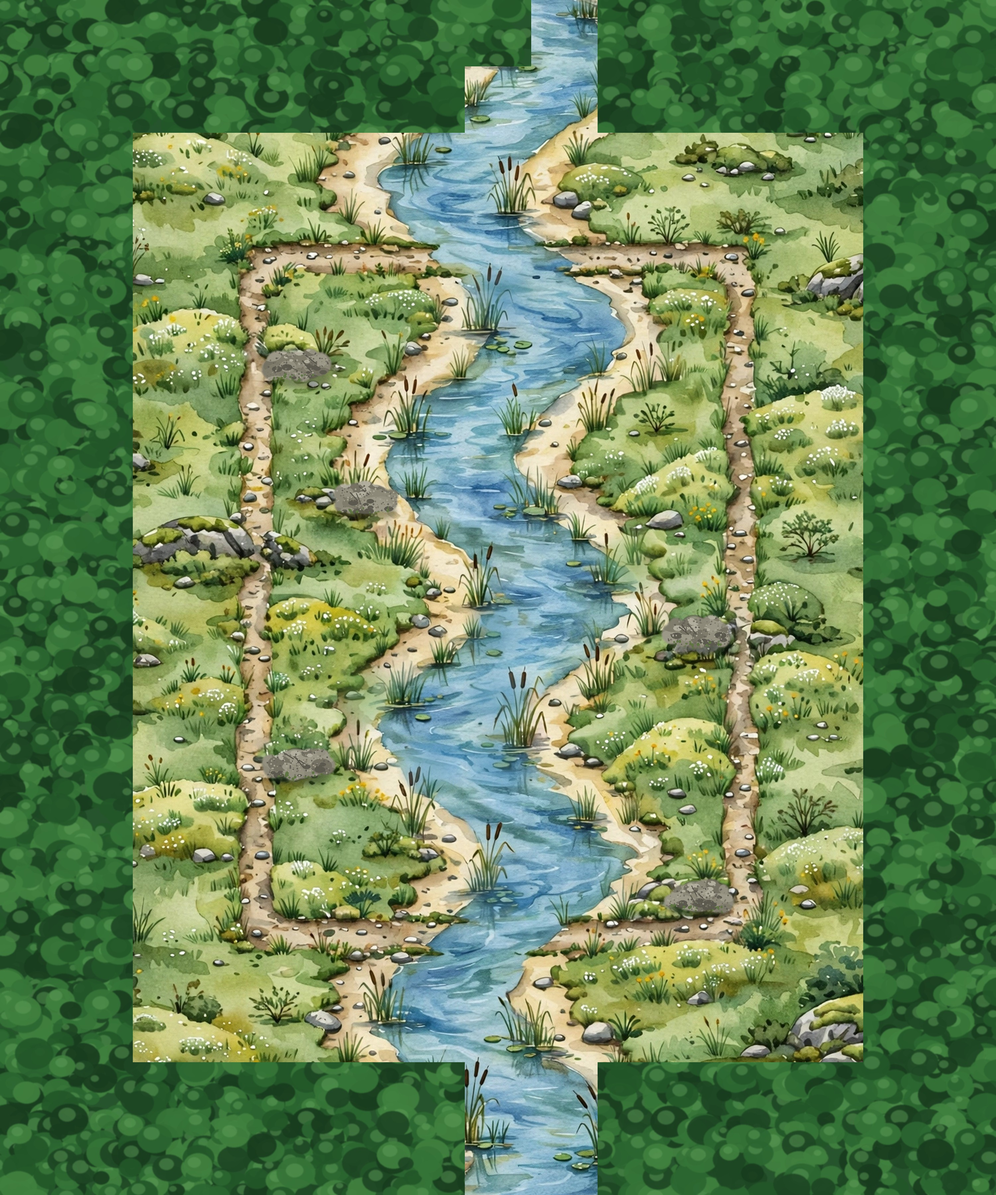
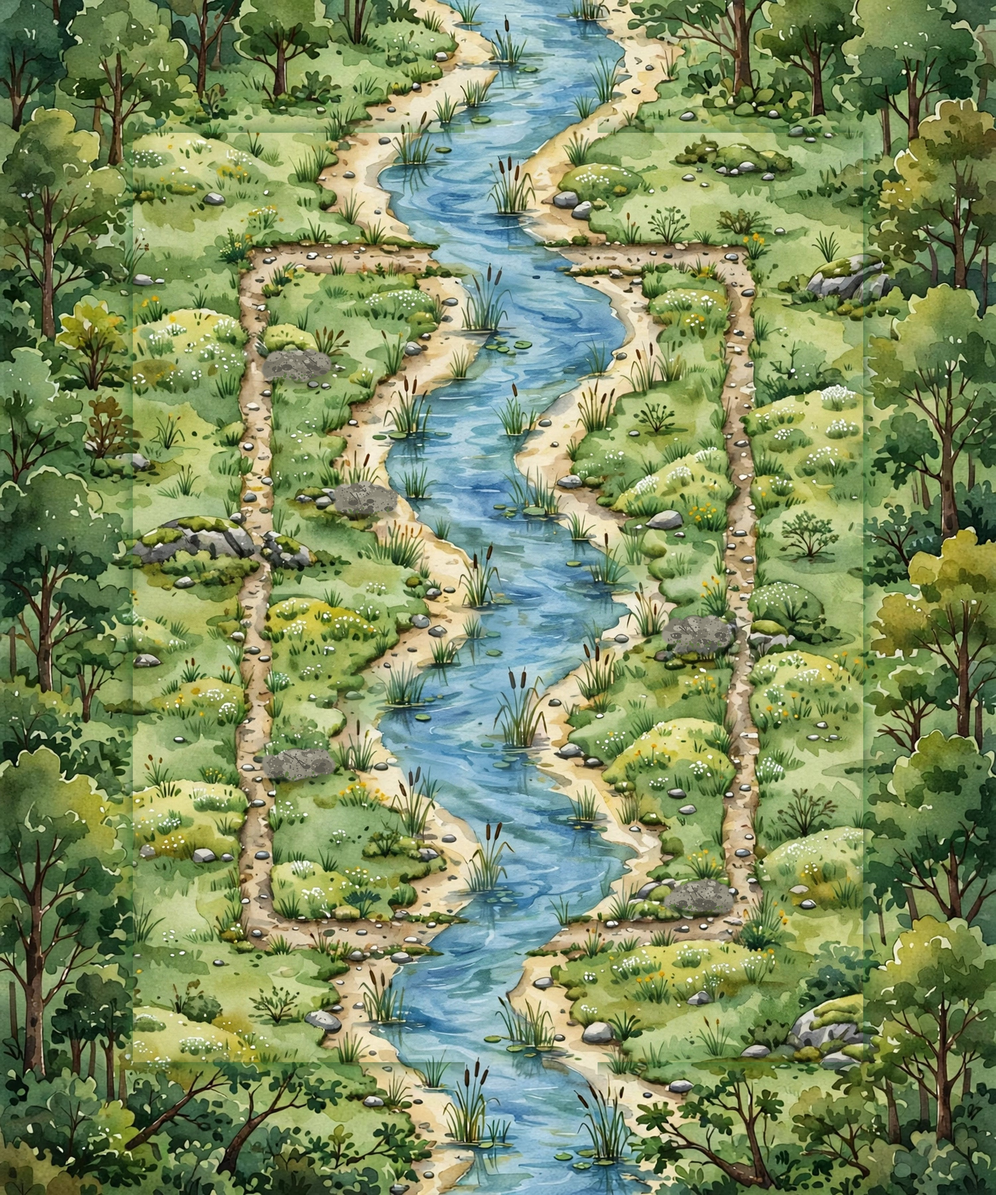
盤外を本物の森に描き替え・崖面を滑らかに

diff --git a/index.html b/index.html
@@ -357,10 +357,12 @@ select{font-family:inherit;font-size:calc(var(--k)*15);padding:calc(var(--k)*8);
 /* 地面SVGは盤面の2倍の広さ（盤外の景色を含む viewBox -235 -100 940 400）で
    盤面の外へはみ出して描く。盤面要素自体の寸法・位置は従来どおり。 */
 .iso-board>svg.iso-ground{position:absolute;left:-50%;top:-50%;width:200%;height:200%;display:block;z-index:0}
-/* ---- マス表示：上面は枠と淡い地形色だけ。段差はブロック式の側面で表す ----
+/* ---- マス表示：上面は枠と淡い地形色だけ。段差は側面で表す ----
    側面（.blk-l/.blk-r）は手前2方向の隣マスとの高さ差ぶんだけ菱形の下辺から垂らす。
-   色は背景画の水彩に合わせた土・岩の質感（芝の縁取り＋土の層＋根元の陰影）にし、
-   輪郭線は引かず、接地部を暗く落として景色に馴染ませる。寸法とclip-pathは
+   色は背景画の水彩に合わせた土・岩の質感にし、輪郭線は引かない。積み重ねた
+   ブロックに見えないよう、横方向の縞（地層の帯）は入れず、色は細かい刻みの
+   グラデーションで滑らかにつなぎ、下端は renderBattle 側で緩い曲線にして
+   僅かにぼかす。接地部を暗く落として景色に馴染ませる。寸法とclip-pathは
    renderBattle がマスごとにインラインで与える（高さデータ・ルールは不変）。 */
 /* 静止時の .diamond は無地・無枠：地形の見分けは下の風景画（groundSvg）自体が担い、
    マスごとの淡色ティントと1px輪郭は「一つの風景」を断片化するので置かない。
@@ -372,15 +374,15 @@ select{font-family:inherit;font-size:calc(var(--k)*15);padding:calc(var(--k)*8);
 .iso-cell.t-grass .diamond{background:transparent;box-shadow:none}
 .iso-cell.t-water .diamond{background:transparent;box-shadow:none}
 .iso-cell.t-rock .diamond{background:transparent;box-shadow:none}
-.iso-cell .blk{position:absolute;pointer-events:none;opacity:.86}
-.iso-cell .blk-l{background:repeating-linear-gradient(96deg,rgba(46,28,8,.045) 0 3px,rgba(255,240,200,.022) 3px 7px,rgba(46,28,8,0) 7px 12px),repeating-linear-gradient(178deg,rgba(52,32,10,.04) 0 5px,rgba(52,32,10,0) 5px 11px),linear-gradient(180deg,#7c9a4e 0%,#82975a 9%,#8a6f42 24%,#77572e 58%,#5a3f1c 88%,#46300f 100%)}
-.iso-cell .blk-r{background:repeating-linear-gradient(84deg,rgba(46,28,8,.035) 0 3px,rgba(255,244,210,.022) 3px 7px,rgba(46,28,8,0) 7px 12px),repeating-linear-gradient(178deg,rgba(52,32,10,.035) 0 5px,rgba(52,32,10,0) 5px 11px),linear-gradient(180deg,#93a95e 0%,#96a05c 9%,#9c7c46 24%,#86622f 58%,#6a4a20 88%,#513812 100%)}
-.iso-cell.t-high .blk-l{background:repeating-linear-gradient(96deg,rgba(46,28,8,.045) 0 3px,rgba(255,240,200,.022) 3px 7px,rgba(46,28,8,0) 7px 12px),repeating-linear-gradient(178deg,rgba(52,32,10,.04) 0 5px,rgba(52,32,10,0) 5px 11px),linear-gradient(180deg,#a3ad58 0%,#a8a95e 9%,#95753e 24%,#7d5c2c 58%,#5f421b 88%,#483110 100%)}
-.iso-cell.t-high .blk-r{background:repeating-linear-gradient(84deg,rgba(46,28,8,.035) 0 3px,rgba(255,244,210,.022) 3px 7px,rgba(46,28,8,0) 7px 12px),repeating-linear-gradient(178deg,rgba(52,32,10,.035) 0 5px,rgba(52,32,10,0) 5px 11px),linear-gradient(180deg,#b3bc66 0%,#b2b465 9%,#a98344 24%,#8d682f 58%,#6e4c20 88%,#543a12 100%)}
-.iso-cell.t-rock .blk-l{background:repeating-linear-gradient(96deg,rgba(20,16,10,.09) 0 3px,rgba(255,250,235,.04) 3px 7px,rgba(20,16,10,0) 7px 12px),linear-gradient(180deg,#8b8378 0%,#7e7668 10%,#6a6154 55%,#4e463c 88%,#38312a 100%)}
-.iso-cell.t-rock .blk-r{background:repeating-linear-gradient(84deg,rgba(20,16,10,.07) 0 3px,rgba(255,250,235,.04) 3px 7px,rgba(20,16,10,0) 7px 12px),linear-gradient(180deg,#a29a8b 0%,#948b7c 10%,#7d7466 55%,#5d554a 88%,#453e35 100%)}
-.iso-cell.t-water .blk-l{background:linear-gradient(180deg,#5d6b46 0%,#4c4a30 22%,#3a3320 62%,#28220f 100%)}
-.iso-cell.t-water .blk-r{background:linear-gradient(180deg,#6b7a50 0%,#585636 22%,#453e24 62%,#2f2712 100%)}
+.iso-cell .blk{position:absolute;pointer-events:none;opacity:.88}
+.iso-cell .blk-l{background:repeating-linear-gradient(97deg,rgba(46,28,8,.05) 0 2px,rgba(46,28,8,0) 2px 9px,rgba(255,240,200,.02) 9px 11px,rgba(255,240,200,0) 11px 17px),linear-gradient(180deg,#7c9a4e 0%,#81975a 8%,#88754d 15%,#82683f 24%,#77592f 38%,#654622 55%,#533a18 72%,#46300f 88%,#3c2a0d 100%)}
+.iso-cell .blk-r{background:repeating-linear-gradient(83deg,rgba(46,28,8,.04) 0 2px,rgba(46,28,8,0) 2px 8px,rgba(255,244,210,.02) 8px 10px,rgba(255,244,210,0) 10px 15px),linear-gradient(180deg,#93a95e 0%,#96a05c 8%,#9a7f4b 15%,#93703f 24%,#86622f 38%,#755226 55%,#62431d 72%,#513812 88%,#46300e 100%)}
+.iso-cell.t-high .blk-l{background:repeating-linear-gradient(97deg,rgba(46,28,8,.05) 0 2px,rgba(46,28,8,0) 2px 9px,rgba(255,240,200,.02) 9px 11px,rgba(255,240,200,0) 11px 17px),linear-gradient(180deg,#a3ad58 0%,#a8a95e 8%,#9a7f4b 15%,#95753e 24%,#86652f 38%,#715322 55%,#5f421b 72%,#4c3311 88%,#3e2a0c 100%)}
+.iso-cell.t-high .blk-r{background:repeating-linear-gradient(83deg,rgba(46,28,8,.04) 0 2px,rgba(46,28,8,0) 2px 8px,rgba(255,244,210,.02) 8px 10px,rgba(255,244,210,0) 10px 15px),linear-gradient(180deg,#b3bc66 0%,#b2b465 8%,#ac8a49 15%,#a98344 24%,#95702f 38%,#7f5c24 55%,#6e4c20 72%,#573b12 88%,#4a300d 100%)}
+.iso-cell.t-rock .blk-l{background:repeating-linear-gradient(97deg,rgba(20,16,10,.07) 0 2px,rgba(20,16,10,0) 2px 8px,rgba(255,250,235,.03) 8px 10px,rgba(255,250,235,0) 10px 16px),linear-gradient(180deg,#8b8378 0%,#847b6e 10%,#7a7163 26%,#6d6355 45%,#5d5346 65%,#4e463c 82%,#403930 92%,#38312a 100%)}
+.iso-cell.t-rock .blk-r{background:repeating-linear-gradient(83deg,rgba(20,16,10,.055) 0 2px,rgba(20,16,10,0) 2px 8px,rgba(255,250,235,.03) 8px 10px,rgba(255,250,235,0) 10px 16px),linear-gradient(180deg,#a29a8b 0%,#98917f 10%,#8c8474 26%,#7f7668 45%,#6e6558 65%,#5d554a 82%,#4c443a 92%,#453e35 100%)}
+.iso-cell.t-water .blk-l{background:linear-gradient(180deg,#5d6b46 0%,#565739 14%,#4c4a30 30%,#423c26 48%,#3a3320 66%,#312a17 82%,#28220f 100%)}
+.iso-cell.t-water .blk-r{background:linear-gradient(180deg,#6b7a50 0%,#62643f 14%,#585636 30%,#4e482a 48%,#453e24 66%,#3a3119 82%,#2f2712 100%)}
 .iso-cell.is-move{cursor:pointer;z-index:3}
 .iso-cell.is-move .diamond{background:rgba(64,200,235,.5);box-shadow:inset 0 0 0 2px #35b6e8;animation:movePulse 1.1s ease-in-out infinite}
 .iso-cell.is-move:hover .diamond{background:rgba(64,200,235,.78)}
@@ -1991,7 +1993,12 @@ function positionPredict(){
        と崖面で表すため）。中央80×80px・120×120pxのサンプルでも
        不一致ゼロ。岩場5マス（(2,3)・(3,5)・(8,7)・(2,9)・(8,11)）は
        広めのサンプルで草地寄りに読めたため、絵の側に岩塊を大きく
-       描き足して読みを安定させた。
+       描き足して読みを安定させた。その後、盤外の帯が単調な「緑の丸」
+       模様に見えたため、帯だけを大きさも形も違う木々（幹・重なる樹冠・
+       濃淡のある下草）の森として描き直した絵に差し替えた。差し替えは
+       合成で行い、盤面内（絵の座標で x400〜2600・y400〜3200）は元の絵を
+       そのまま残してあるので、盤面内の照合結果は差し替え前と同一
+       （中央100×100px・120×120pxとも不一致ゼロを再確認済み）。
    描画は3層：
    (a) 盤外の景色：拡張格子全体の菱形に、風景画を1枚のまま同じ投影
        （rotXY・高さ0の平面）でアフィン変換して敷く。継ぎ目の無い一枚絵
@@ -2096,12 +2103,41 @@ function groundSvg(){
     if(gx>=-PAINT_OX&&gx<COLS+PAINT_OX&&gy>=-PAINT_OY&&gy<ROWS+PAINT_OY) continue;
     var hv=cellHash(gx,gy); if(hv>=0.68) continue;
     var c=gCenter(gx,gy,0); if(c.x<-245||c.x>715||c.y<-110||c.y>310) continue;
-    var cx1=Math.round(c.x*10)/10, body="";
-    if(hv<0.5){ /* 樹冠は同心円の的ではなく、中心をずらした円の重なりで茂みらしく */
-      var ox=Math.round(((hv*97)%1-0.5)*80)/10, oy=Math.round(((hv*57)%1-0.5)*40)/10;
-      function fc(dx,dy,r,col){ return '<circle cx="'+(Math.round((c.x+dx)*10)/10)+'" cy="'+(Math.round((c.y+dy)*10)/10)+'" r="'+r+'" fill="'+col+'"/>'; }
-      body=fc(0,-5,12.5,"#2e5c31")+fc(ox-4.5,-7.5,8.2,"#3a6f3c")+fc(-ox+5,-3.5,6.8,"#356b38")+fc(ox*0.5+1.5,-9.5,4.6,"#4a854c"); }
-    else { body='<ellipse cx="'+cx1+'" cy="'+(Math.round((c.y-2)*10)/10)+'" rx="7.5" ry="4.8" fill="#38663a"/>'; }
+    var body="";
+    function fe(dx,dy,rx,ry,col){ return '<ellipse cx="'+(Math.round((c.x+dx)*10)/10)+'" cy="'+(Math.round((c.y+dy)*10)/10)+'" rx="'+(Math.round(rx*10)/10)+'" ry="'+(Math.round(ry*10)/10)+'" fill="'+col+'"/>'; }
+    /* 樹冠は円ではなく、半径をハッシュで揺らした9点の輪郭を滑らかにつないだ
+       「こんもりした塊」のパスで描く（円の並びが「緑の丸」に見えるのを避ける）。
+       影→幹→樹冠（暗・主・明の3層）→斑点の順で1本の木として描き、樹冠は
+       隣のマスへはみ出す大きさにして、木々が重なって森の塊に見えるようにする。 */
+    function blob(dx,dy,r,salt,col){
+      var n=9, pts=[], i, ang, rr;
+      for(i=0;i<n;i++){ ang=Math.PI*2*i/n; rr=r*(0.76+cellHash(gx*7+salt*13+i*3, gy*11+salt*7+i*5)*0.5);
+        pts.push([c.x+dx+Math.cos(ang)*rr, c.y+dy+Math.sin(ang)*rr*0.82]); }
+      function m(v){ return Math.round(v*10)/10; }
+      var d="M"+m((pts[0][0]+pts[n-1][0])/2)+","+m((pts[0][1]+pts[n-1][1])/2);
+      for(i=0;i<n;i++){ var p=pts[i], q=pts[(i+1)%n];
+        d+=" Q"+m(p[0])+","+m(p[1])+" "+m((p[0]+q[0])/2)+","+m((p[1]+q[1])/2); }
+      return '<path d="'+d+' Z" fill="'+col+'"/>';
+    }
+    function speck(dx,dy,salt){ var s="", i, a, b;
+      for(i=0;i<3;i++){ a=cellHash(gx*3+salt+i*7, gy*5+i*11); b=cellHash(gx*13+i*3, gy*3+salt*7);
+        s+='<circle cx="'+(Math.round((c.x+dx+(a-0.5)*9)*10)/10)+'" cy="'+(Math.round((c.y+dy+(b-0.5)*6)*10)/10)+'" r="'+(0.8+a*0.7).toFixed(1)+'" fill="rgba(12,32,12,0.35)"/>'; }
+      return s; }
+    var sc=0.85+((hv*53)%1)*0.5; /* 木ごとの大きさ 0.85〜1.35倍 */
+    var o1x=Math.round(((hv*97)%1-0.5)*70)/10, o2x=Math.round(((hv*41)%1-0.5)*90)/10;
+    if(hv<0.52){ /* 木 */
+      body=fe(0,3,13.5*sc,5.5*sc,"rgba(14,32,14,0.35)")
+        +'<polygon points="'+(Math.round((c.x-1.2)*10)/10)+','+(Math.round((c.y+3.4)*10)/10)+' '+(Math.round((c.x+1.2)*10)/10)+','+(Math.round((c.y+3.4)*10)/10)+' '+(Math.round((c.x+0.5)*10)/10)+','+(Math.round((c.y-6*sc)*10)/10)+' '+(Math.round((c.x-0.7)*10)/10)+','+(Math.round((c.y-6*sc)*10)/10)+'" fill="#5a4230"/>'
+        +blob(o1x,-13*sc,12.6*sc,1,"#2e5f31")
+        +blob(o1x-4,-10.5*sc,8.6*sc,2,"#26512a")
+        +blob(o1x+3.5,-15.5*sc,7.2*sc,3,"#477f45")
+        +blob(o2x*0.4,-17.5*sc,3.6*sc,4,"#6da354")
+        +speck(o1x,-12*sc,5); }
+    else { /* 低い茂み：幹なしで小さな塊の重なり */
+      body=fe(0,1.8,8.5*sc,3.8*sc,"rgba(14,32,14,0.3)")
+        +blob(o1x,-4.5,6.8*sc,6,"#356b38")
+        +blob(o1x+2.5,-6.5,4.4*sc,7,"#4d8a4e")
+        +speck(o1x,-4.5,8); }
     items.push({s:c.s, h:body});
   }
   /* 盤外のフラット塗り（絵が読めない環境での景色の下地）：盤外地形モデル
@@ -2833,12 +2869,24 @@ function renderBattle(){
       var f=drop*ELEV_PCT/(2*ISO_SY);
       if(f<0.04) return "";
       f=Math.min(1.15, f);
-      var bh=50+100*f, p1=(50/bh*100).toFixed(1), p2=(100*f/bh*100).toFixed(1);
-      var poly = cls==="blk-l" ? ("0 0,100% "+p1+"%,100% 100%,0 "+p2+"%") : ("0 "+p1+"%,100% 0,100% "+p2+"%,0 100%");
+      var bh=50+100*f, p1=(50/bh*100), p2=(100*f/bh*100);
+      /* 下端は直線で切らず、中間点を置いて緩やかに垂れる曲線にする（垂れ量は
+         マスごとの決定的ハッシュで少しだけ散らし、侵食された土の斜面に見せる）。
+         上辺と左右端は隣マスとの整合のため直線のままにする。 */
+      var hs=(x*31+y*17+(cls==="blk-l"?7:13))%10/10; /* 0〜0.9 */
+      function sag(t){ return (2.4+hs*1.5)*Math.sin(Math.PI*t); }
+      function pt(px,py){ return px+"% "+(Math.round(py*10)/10)+"%"; }
+      var poly;
+      if(cls==="blk-l"){ /* 下端：(0,p2) → (100,100) */
+        poly="0 0,"+pt(100,p1)+","+pt(100,100)+","+pt(64,p2+(100-p2)*0.64+sag(0.64))+","+pt(34,p2+(100-p2)*0.34+sag(0.34))+","+pt(0,p2);
+      } else { /* 下端：(0,100) → (100,p2) */
+        poly=pt(0,p1)+",100% 0,"+pt(100,p2)+","+pt(66,100+(p2-100)*0.66+sag(0.66))+","+pt(32,100+(p2-100)*0.32+sag(0.32))+","+pt(0,100);
+      }
       var pos = cls==="blk-l" ? "left:0" : "left:50%";
-      /* マスごとに明暗をわずかにずらし、側面が均一な帯に見えないようにする（決定的な疑似乱数） */
-      var br=(0.94+((x*7+y*13+(cls==="blk-l"?0:3))%5)*0.03).toFixed(2);
-      return '<span class="blk '+cls+'" style="'+pos+';top:50%;width:50%;height:'+bh.toFixed(1)+'%;clip-path:polygon('+poly+');filter:brightness('+br+')"></span>';
+      /* マスごとの明暗差は小さく抑える（差が大きいと側面が別々のブロックに
+         見える）。輪郭には僅かなぼかしを入れ、水彩の絵へ溶け込ませる。 */
+      var br=(0.97+((x*7+y*13+(cls==="blk-l"?0:3))%5)*0.015).toFixed(3);
+      return '<span class="blk '+cls+'" style="'+pos+';top:50%;width:50%;height:'+bh.toFixed(1)+'%;clip-path:polygon('+poly+');filter:brightness('+br+') blur(0.5px)"></span>';
     }
     var blocks = blkSpan("blk-l", lt.h-dispH(drx,dry+1)) + blkSpan("blk-r", lt.h-dispH(drx+1,dry));
     var inner=blocks+'<span class="diamond"></span><span class="hit"></span>';

diff --git a/assets/sw.js b/assets/sw.js
@@ -3,7 +3,7 @@
    更新時は CACHE_VERSION を上げることで古いキャッシュが破棄され、新版が反映されます。 */
 "use strict";
 
-var CACHE_VERSION = "kawakami-v25";
+var CACHE_VERSION = "kawakami-v26";
 var CORE_CACHE = CACHE_VERSION + "-core";
 var RUNTIME_CACHE = CACHE_VERSION + "-runtime";
 
